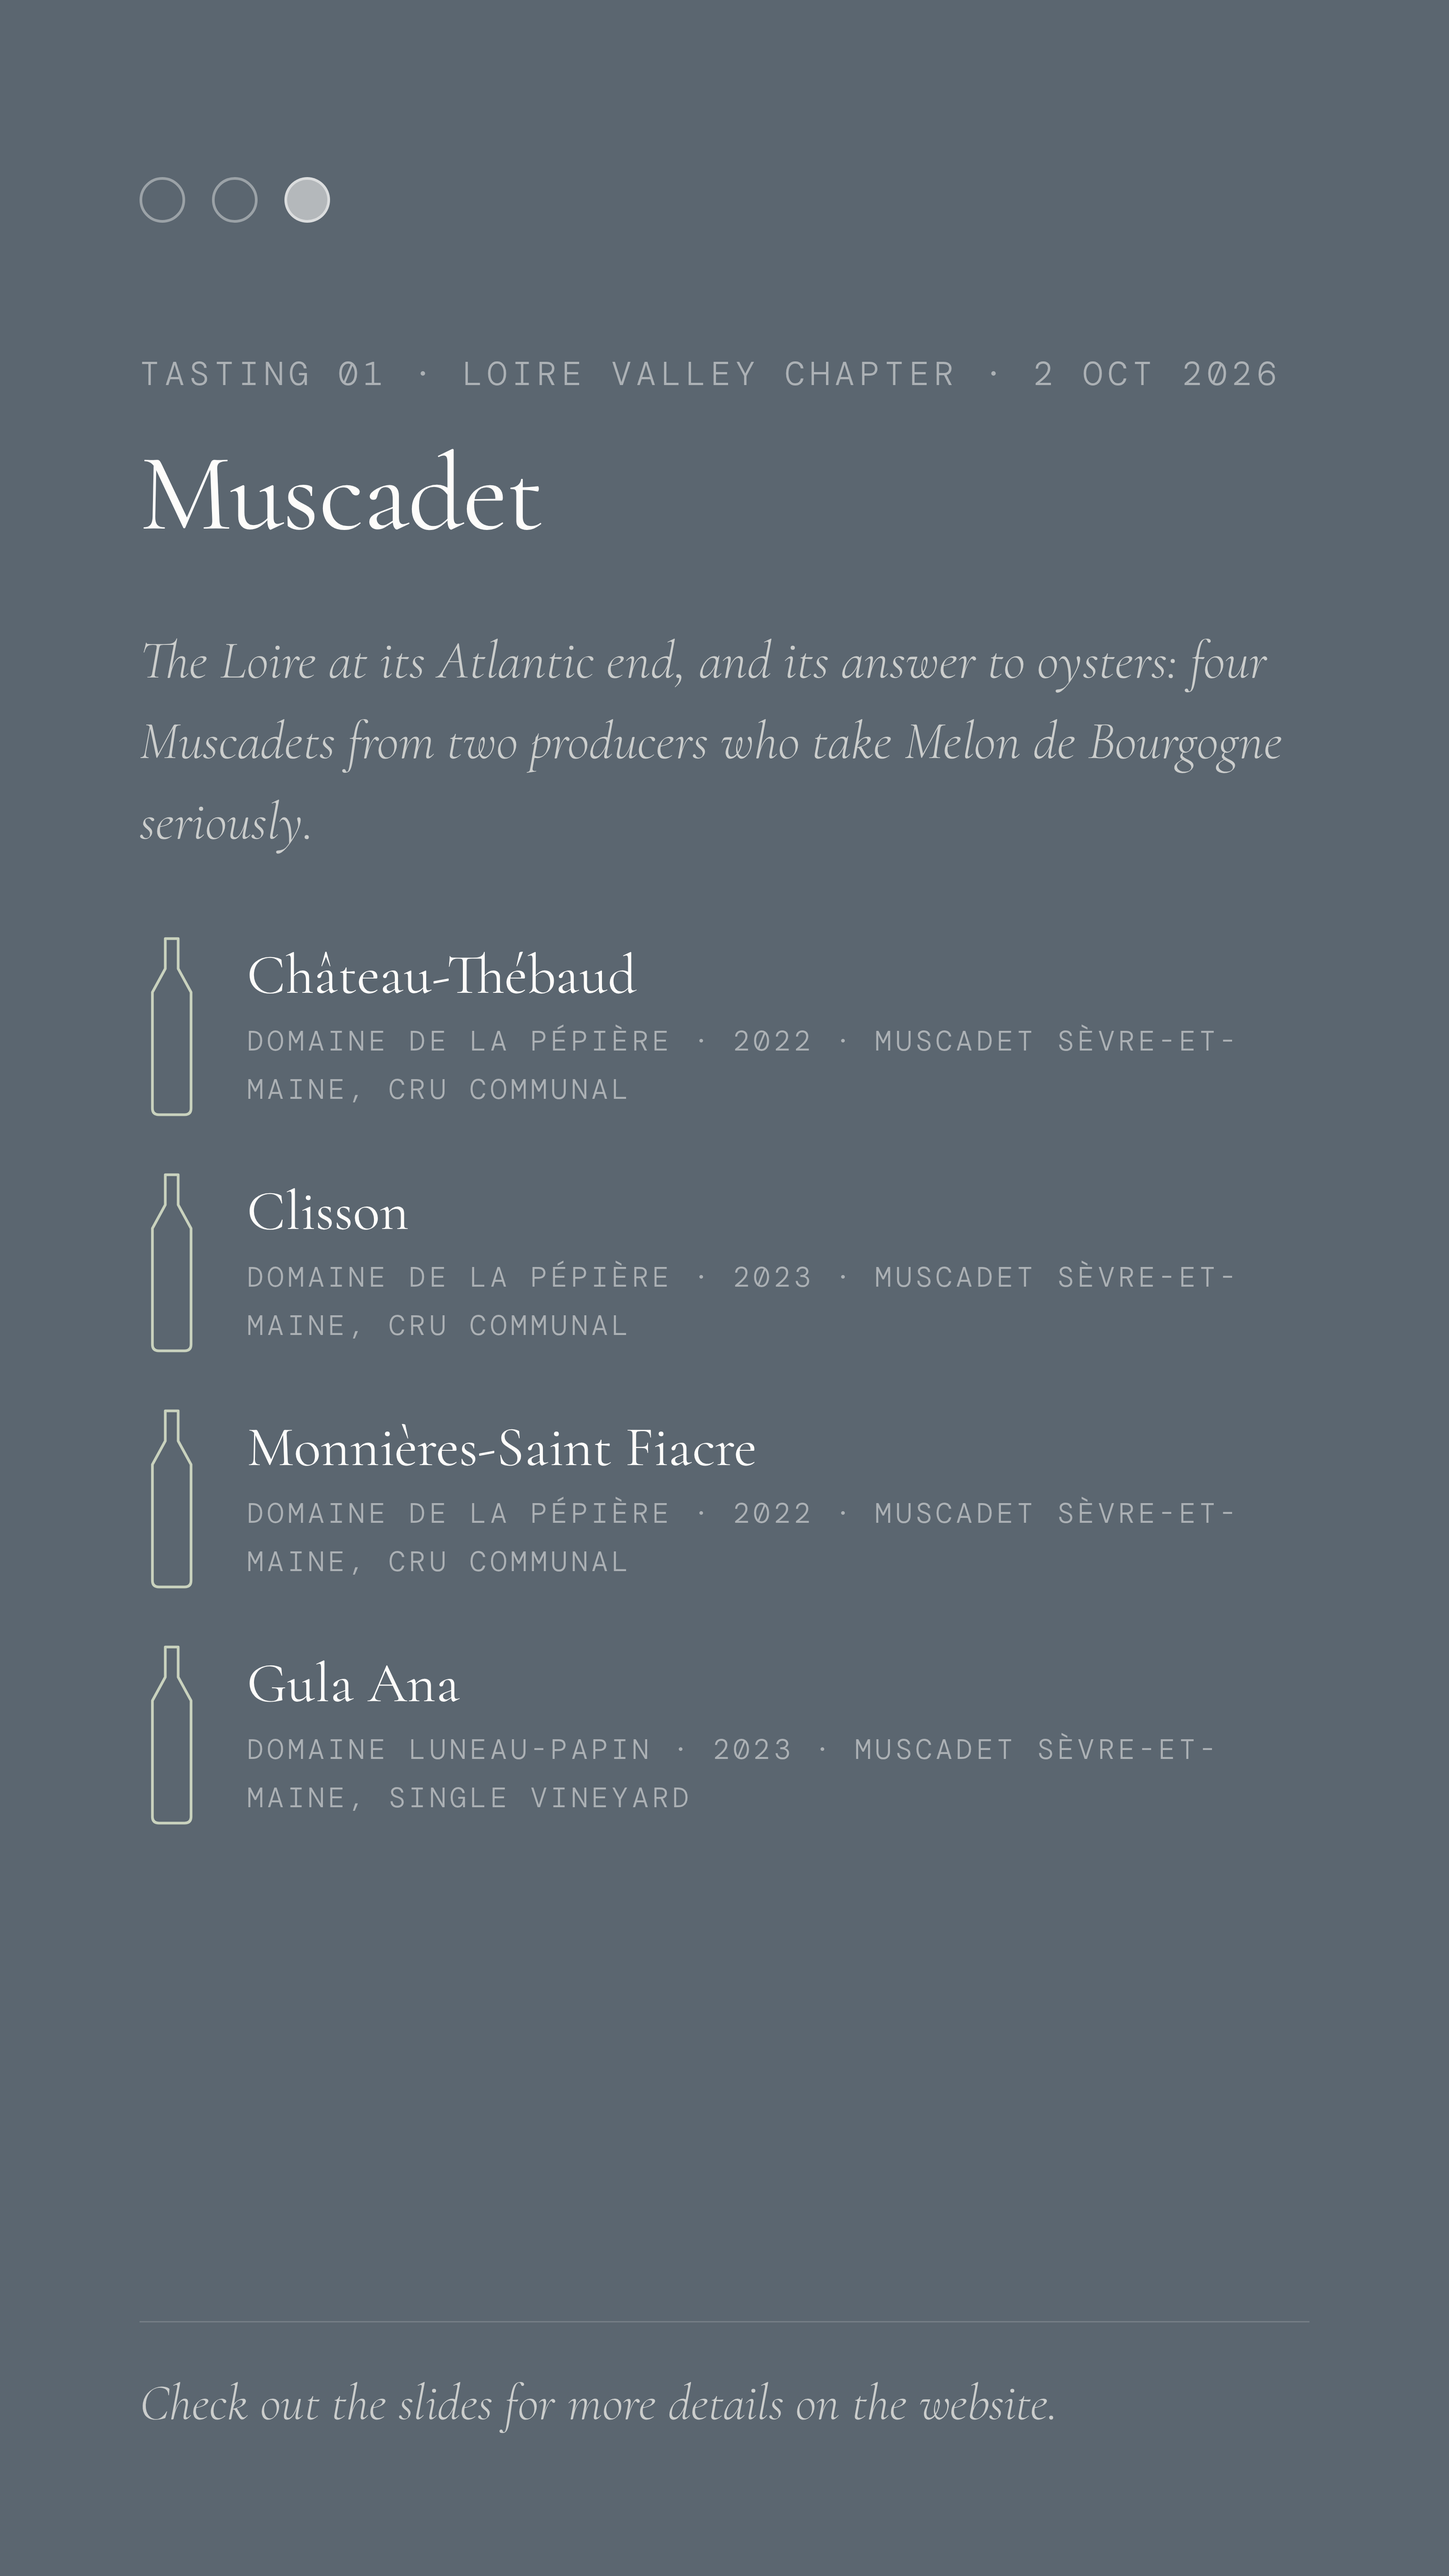
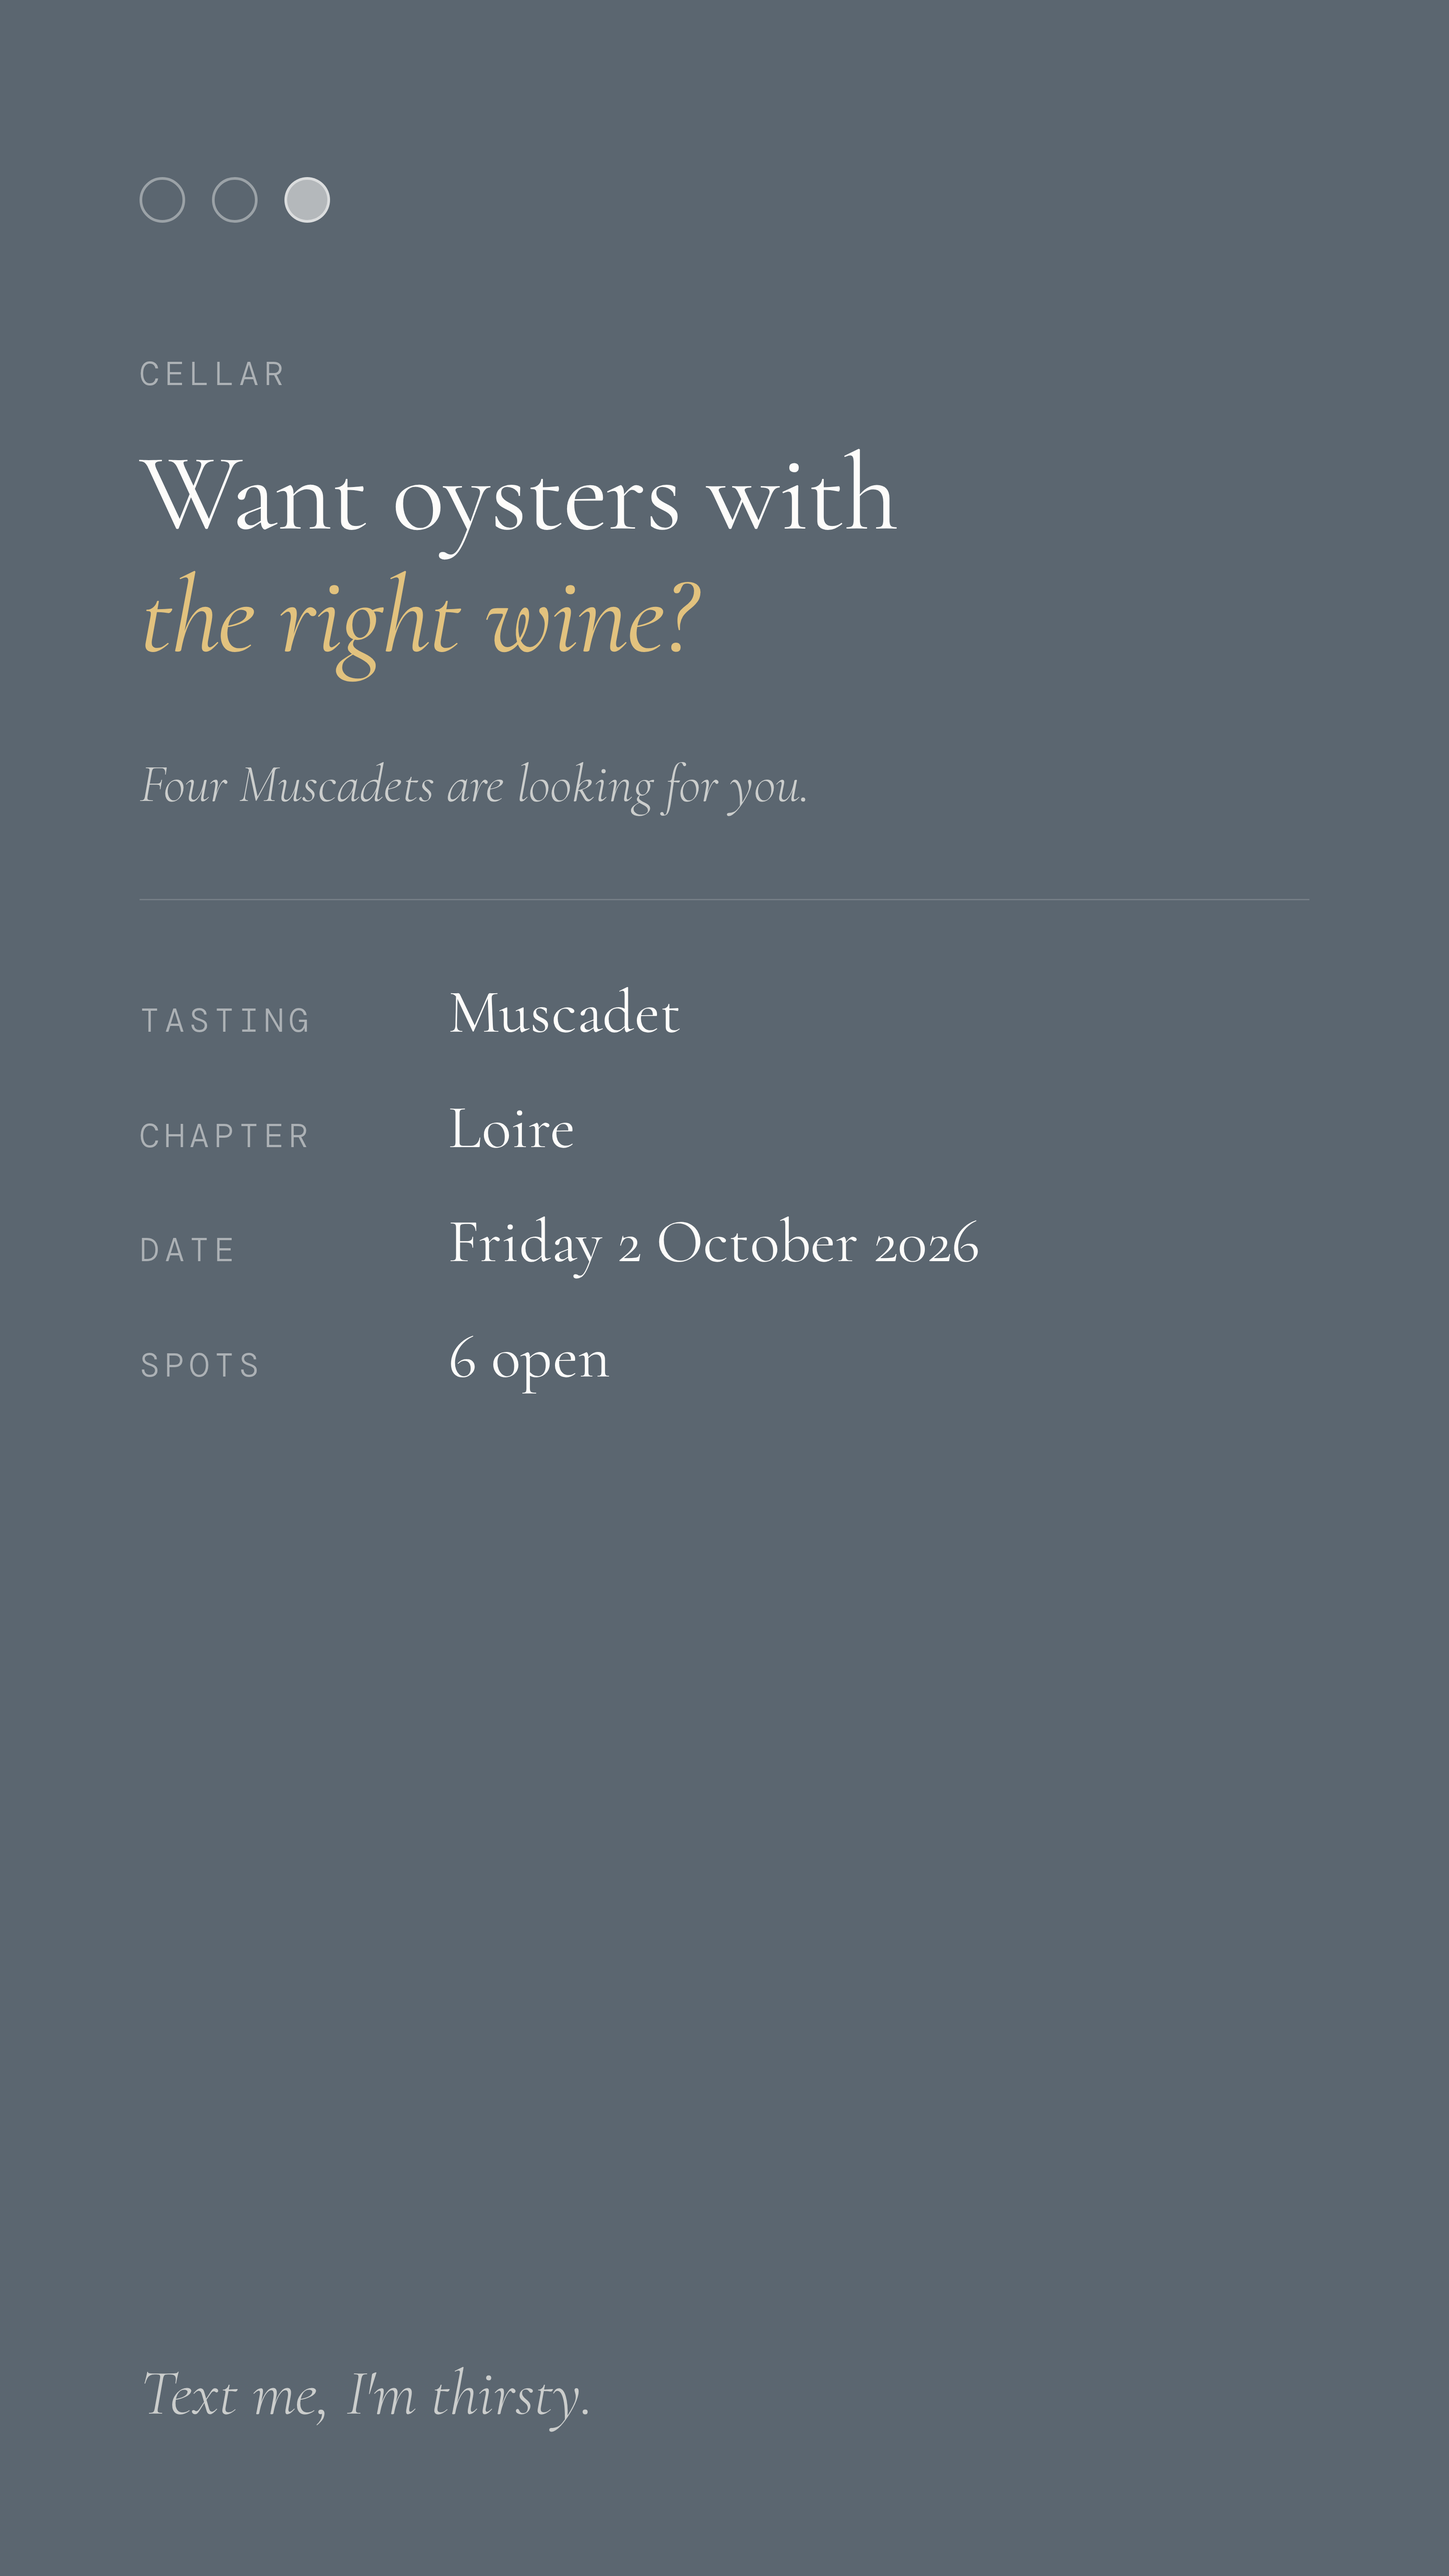
Rebuild Muscadet story 19 as a teaser with an italic gold hook
New story/teaser.html include: CELLAR eyebrow, two-line hook whose
second line is an italic gold payoff, follow-on line, rule,
Tasting/Chapter/Date/Spots rows read live from tastings.yml, and a
closing CTA. The payoff is a span with explicit italic 400 (a loaded
italic weight) so the sitewide em colour rule can't turn it green,
and uses a lighter gold on dark backgrounds, since --gold is only
1.15:1 on the Loire colour.

Claude-Session: https://claude.ai/code/session_011EoDSNXw185XHotRK1MkWi

diff --git a/assets/css/main.css b/assets/css/main.css
@@ -1801,6 +1801,59 @@ a.th-stat:hover .th-stat__num { color: var(--warm-white); }
 .story--green .story-pair__divider,
 .story--loire .story-pair__divider { background: rgba(253,252,250,0.16); }
 
+/* ── Teaser: two-line hook, second line the italic gold payoff
+   (_includes/story/teaser.html). The payoff is a <span>, not an <em>,
+   so the sitewide em{color:var(--green)} rule can't recolour it, and it
+   sets font-style + a weight the italic face actually ships (300/400
+   are the only italic weights loaded; anything else is synthesised).
+   --gold is 1.15:1 on --loire and under 2:1 on --green, so dark
+   backgrounds get a lighter gold from the same family (3.4:1 on
+   --loire, 5.7:1 on --green, fine at this size). ── */
+.story-hook__em {
+  display: block;
+  font-style: italic;
+  font-weight: 400;
+  color: var(--gold);
+}
+.story--dark .story-hook__em,
+.story--green .story-hook__em,
+.story--loire .story-hook__em,
+.story--magenta .story-hook__em,
+.story--blue .story-hook__em { color: #E2C27E; }
+.story-facts {
+  display: grid;
+  grid-template-columns: 230px 1fr;
+  align-items: baseline;
+  row-gap: 30px;
+  flex: 0 0 auto;
+}
+.story-facts dt {
+  font-family: var(--font-mono);
+  font-weight: 300;
+  font-size: 25px;
+  letter-spacing: 0.14em;
+  text-transform: uppercase;
+  color: var(--ink-light);
+}
+.story-facts dd {
+  font-family: var(--font-serif);
+  font-weight: 400;
+  font-size: 46px;
+  line-height: 1.2;
+  color: var(--ink);
+}
+.story--dark .story-facts dt,
+.story--green .story-facts dt,
+.story--loire .story-facts dt,
+.story--magenta .story-facts dt,
+.story--blue .story-facts dt { color: rgba(253,252,250,0.5); }
+.story--dark .story-facts dd,
+.story--green .story-facts dd,
+.story--loire .story-facts dd,
+.story--magenta .story-facts dd,
+.story--blue .story-facts dd { color: var(--warm-white); }
+.story-teaser__cta { margin-top: auto; font-size: 48px; }
+
 /* ── Section cover: single centered word, dots top-left only ─── */
 .story__inner--center { display: flex; flex: 1 1 auto; justify-content: center; align-items: center; text-align: center; }
 .story-word {

diff --git a/_includes/story/teaser.html b/_includes/story/teaser.html
@@ -1,0 +1,30 @@
+{% comment %}
+  Teaser promo: invites people to an upcoming tasting with a question
+  hook rather than an urgency count or a wine rundown. CELLAR eyebrow,
+  a two-line title whose second line is the italic gold payoff, a short
+  follow-on line, a rule, Tasting/Chapter/Date/Spots rows read live
+  from _data/tastings.yml, and a closing CTA line pinned to the bottom.
+  Page front matter: tasting_slug, story_bg (green|offwhite|loire|dark),
+  hook (plain first line), hook_em (italic gold second line), follow,
+  cta. Spots shows spots_total as open spots (there is no spots_taken
+  field); use spots-left.html when a real remaining count matters.
+{% endcomment %}
+{% assign tasting = site.data.tastings | where: "slug", page.tasting_slug | first %}
+{% assign chapter = nil %}
+{% if tasting.chapter %}{% assign chapter = site.chapters | where: "slug", tasting.chapter | first %}{% endif %}
+<div class="story story--{{ page.story_bg }}">
+  <div class="story__inner">
+    {% include story/dots.html chapter=tasting.chapter %}
+    <p class="story-eyebrow">CELLAR</p>
+    <h1 class="story-title story-hook">{{ page.hook }}<span class="story-hook__em">{{ page.hook_em }}</span></h1>
+    <p class="story-italic" style="margin-bottom: 56px;">{{ page.follow }}</p>
+    <hr class="story-rule" style="margin-bottom: 56px;">
+    <dl class="story-facts">
+      <dt>Tasting</dt><dd>{{ tasting.title }}</dd>
+      {% if chapter %}<dt>Chapter</dt><dd>{{ chapter.title }}</dd>{% endif %}
+      <dt>Date</dt><dd>{{ tasting.date | date: "%A %-d %B %Y" }}</dd>
+      <dt>Spots</dt><dd>{{ tasting.spots_total }} open</dd>
+    </dl>
+    <p class="story-italic story-teaser__cta">{{ page.cta }}</p>
+  </div>
+</div>

diff --git a/assets/social/instagram/stories/src/story-19-muscadet-oysters.html b/assets/social/instagram/stories/src/story-19-muscadet-oysters.html
@@ -1,13 +1,12 @@
 ---
 layout: story
-story_type: tasting-reveal
+story_type: teaser
 permalink: /stories/story-19-muscadet-oysters.html
 sitemap: false
 tasting_slug: muscadet
-number: "01"
 story_bg: loire
-intro: >
-  The Loire at its Atlantic end, and its answer to oysters: four
-  Muscadets from two producers who take Melon de Bourgogne seriously.
-wine_types: [white, white, white, white]
+hook: "Want oysters with"
+hook_em: "the right wine?"
+follow: "Four Muscadets are looking for you."
+cta: "Text me, I'm thirsty."
 ---

diff --git a/_layouts/story.html b/_layouts/story.html
@@ -29,6 +29,8 @@
     {% include story/spots-left.html %}
   {% elsif page.story_type == "recap" %}
     {% include story/recap.html %}
+  {% elsif page.story_type == "teaser" %}
+    {% include story/teaser.html %}
   {% endif %}
 </body>
 </html>
